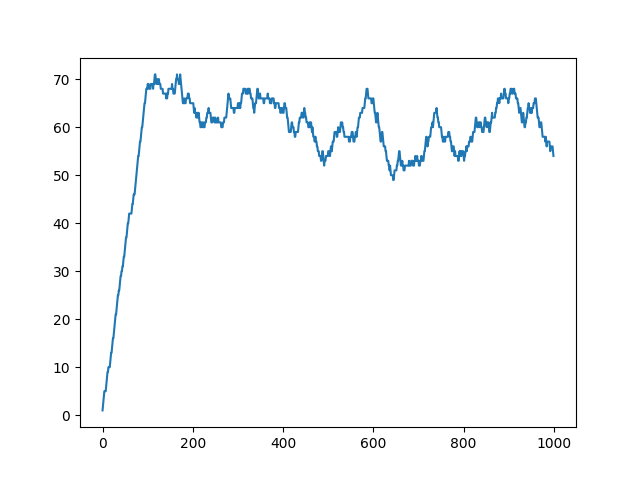
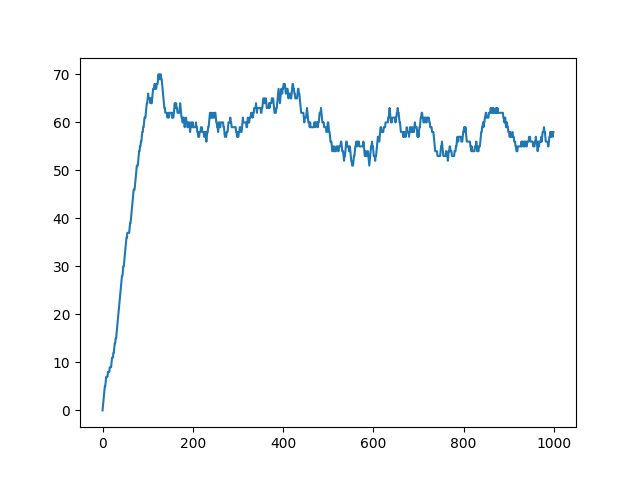
Add optuna at part 2

diff --git a/part2/frozen_lake.py b/part2/frozen_lake.py
@@ -4,7 +4,9 @@ import matplotlib.pyplot as plt
 import pickle
 import sys
 import argparse
+import json
 from tqdm import tqdm
+import optuna
 
 TRAIN_EPISODES = 15000
 RUN_EPISODES = 1000
@@ -32,35 +34,43 @@ def print_success_rate(rewards_per_episode):
     print(f"✅ Success Rate: {success_rate:.2f}% ({int(success_count)} / {total_episodes} episodes)")
     return success_rate
 
-def find_best_combination():
+def tune_parameter_combinations():
     "自動的尋找最佳參數組合"
-    best_late_success_rate = 0
-    best_combination = (0,0,0)
 
-    decay_rate = np.arange(0.00008, 0.0004, 0.00001)
-    min_epsilon_values = np.arange(0, 0.00025, 0.00001)
-    learning_rates = np.arange(0.5, 0.9, 0.05)
+    def objective(trial):
+        epsilon_decay_rate = trial.suggest_float('epsilon_decay_rate', 0.00001, 0.001, log=True)
+        min_epsilon = trial.suggest_float('min_epsilon', 0.00001, 0.1, log=True)
+        learning_rate = trial.suggest_float('learning_rate', 0.01, 1.0, log=True)
 
-    for epsilon_decay_rate in decay_rate:
-        for min_epsilon in min_epsilon_values:
-            for learning_rate in learning_rates:
-                print(f"Testing combination: epsilon_decay_rate={epsilon_decay_rate}, min_epsilon={min_epsilon}, learning_rate={learning_rate}")
-                late_success_rate , q_table = run(15000, is_training=True, render=False, epsilon_decay_rate=epsilon_decay_rate, min_epsilon=min_epsilon, learning_rate_a=learning_rate)
-                if late_success_rate > best_late_success_rate:
-                    best_late_success_rate = late_success_rate
-                    best_combination = (epsilon_decay_rate, min_epsilon, learning_rate)
+        return run(
+            TRAIN_EPISODES,
+            is_training=True,
+            render=False,
+            epsilon_decay_rate=epsilon_decay_rate,
+            min_epsilon=min_epsilon,
+            learning_rate_a=learning_rate
+        )
+    
+    study = optuna.create_study(direction='maximize')
+    study.optimize(objective, n_trials=50)
 
-                    print(f"New best combination found: epsilon_decay_rate={epsilon_decay_rate}, min_epsilon={min_epsilon}, learning_rate={learning_rate} with Success Rate: {best_late_success_rate:.2f}%")
-                    f = open("frozen_lake8x8.pkl","wb")
-                    pickle.dump(q_table, f)
-                    f.close()
-    print(f"Best combination: epsilon_decay_rate={best_combination[0]:.5f}, min_epsilon={best_combination[1]:.5f}, learning_rate={best_combination[2]:.2f}  with Success Rate: {best_late_success_rate:.2f}%")
+    print('Number of finished trials:', len(study.trials))
+    print('Best trial parameters:', study.best_trial.params)
+    print('Best score:', study.best_value)
 
-def run(episodes, is_training=True, render=False , epsilon_decay_rate=0.0001 , min_epsilon=0.0001, learning_rate_a=0.55):
+    with open('frozen_lake8x8_tuning_results.json', 'w+') as f:
+        json.dump({
+            'best_params': study.best_trial.params,
+            'best_value': study.best_value
+        }, f, indent=4)
+
+    # print(f"Best combination: epsilon_decay_rate={best_combination[0]:.5f}, min_epsilon={best_combination[1]:.5f}, learning_rate={best_combination[2]:.2f}  with Success Rate: {best_late_success_rate:.2f}%")
+
+def run(episodes, is_training=True, render=False , epsilon_decay_rate=0.0001 , min_epsilon=0.0001, learning_rate_a=0.1):
 
     env = gym.make('FrozenLake-v1', map_name="8x8", is_slippery=True, render_mode='ansi' if render else None)
 
-    if(is_training):
+    if is_training :
         q = np.zeros((env.observation_space.n, env.action_space.n)) # init a 64 x 4 array
     else:
         f = open('frozen_lake8x8.pkl', 'rb')
@@ -112,16 +122,18 @@ def run(episodes, is_training=True, render=False , epsilon_decay_rate=0.0001 , m
     plt.savefig('frozen_lake8x8.png')
     
     if is_training == False:
-        print(print_success_rate(rewards_per_episode))
-               
+        print("Running Success Rate over time:")
+        success_rate = print_success_rate(rewards_per_episode)
+
     if is_training:
-        last_n_episodes = 1000
-        if episodes < last_n_episodes:
-            last_n_episodes = episodes
-            
-        late_success_rate = np.sum(rewards_per_episode[-last_n_episodes:]) / last_n_episodes * 100
-        print(f"Late Stage Success Rate (Last {last_n_episodes}): {late_success_rate:.2f}%")
-        return late_success_rate , q
+        print("Late Training Success Rate (last 1000 episodes):")
+        success_rate = print_success_rate(rewards_per_episode[-1000:])
+
+        f = open("frozen_lake8x8.pkl","wb")
+        pickle.dump(q, f)
+        f.close()
+
+    return success_rate
 
 if __name__ == '__main__':
     
@@ -130,7 +142,19 @@ if __name__ == '__main__':
 
     if args.run:
         run(RUN_EPISODES, is_training=False, render=False)
+
     elif args.train:
-        run(TRAIN_EPISODES, is_training=True, render=False)
+        with open('frozen_lake8x8_tuning_results.json', 'r') as f:
+            json_data = json.load(f)
+            best_params = json_data['best_params']
+        run(TRAIN_EPISODES,
+            is_training=True,
+            render=False,
+            epsilon_decay_rate=best_params['epsilon_decay_rate'],
+            min_epsilon=best_params['min_epsilon'],
+            learning_rate_a=best_params['learning_rate']
+        )
+        run(RUN_EPISODES, is_training=False, render=False)
+
     elif args.tune:
-        find_best_combination()
+        tune_parameter_combinations()
